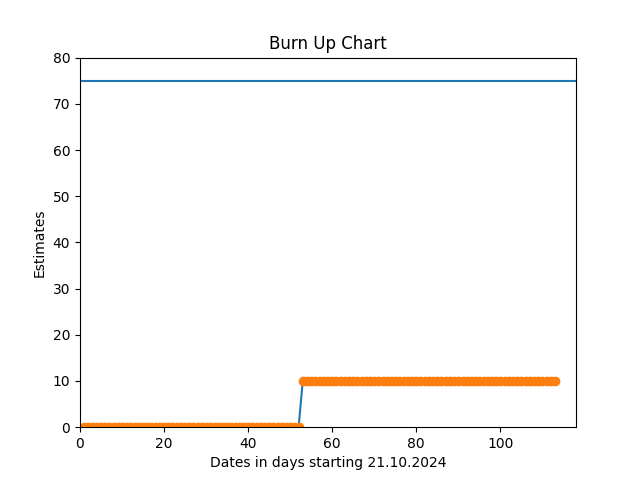
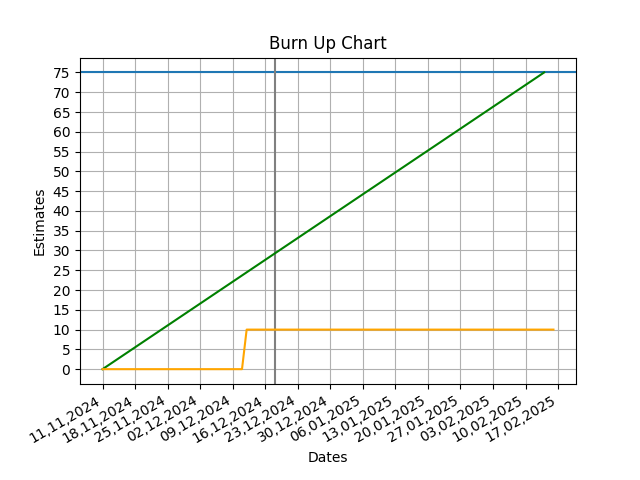
Fixed up the Burn-Up plot so that ist shows the dates on the x-axis and alle the other needed stuff (the line)

diff --git a/Burn-Up-Chart/CreateBurnUpChart.py b/Burn-Up-Chart/CreateBurnUpChart.py
@@ -2,6 +2,7 @@ import matplotlib.pyplot as plt
 import numpy as np
 import datetime
 import csv
+import matplotlib.dates as mdates
 
 max_estimate = 75  #Current total estimate
 
@@ -20,14 +21,22 @@ with open("Burn-Up-Chart/log.csv", "r") as file:
 
     date_pos = np.linspace(1, len(dates), len(dates))   # linear array of all dates for ploting.
     
-    plt.axis([0,len(dates)+5, 0, max_estimate+5]) # Fixes the viewport for the plot
-    plt.hlines(max_estimate, 0, len(dates)+5) # Plots the total estimate line (Goal line)
+    #This Parte sets the x-axis up so that it shows nice dates
+    plt.gca().xaxis.set_major_formatter(mdates.DateFormatter('%d,%m,%Y'))
+    plt.gca().xaxis.set_major_locator(mdates.DayLocator(interval=7))
+    plt.gcf().autofmt_xdate()
+
+    plt.yticks(np.arange(0, max_estimate + 5, step = 5))
+    plt.axhline(max_estimate) # Plots the total estimate line (Goal line)
+    plt.axvline(datetime.datetime.today(), linestyle = '-', color = 'gray')
+
+    plt.grid(True)
 
     plt.title("Burn Up Chart")
-    plt.xlabel("Dates in days starting 21.10.2024")
+    plt.xlabel("Dates")
     plt.ylabel("Estimates")
 
-    plt.plot(date_pos, estimates) # Plots a line with the done estimates
-    plt.plot(date_pos, estimates, 'o') # Plors Dots for the done estimates
+    plt.plot([dates[0], dates[len(dates) - 3]], [0, max_estimate], linestyle='-', color='green') #-3 sets the last date to the last Friday
+    plt.plot(dates, estimates, color='orange') # Plors Dots for the done estimates
     plt.savefig("Burn-Up-Chart/Burnup-plot.png")
 